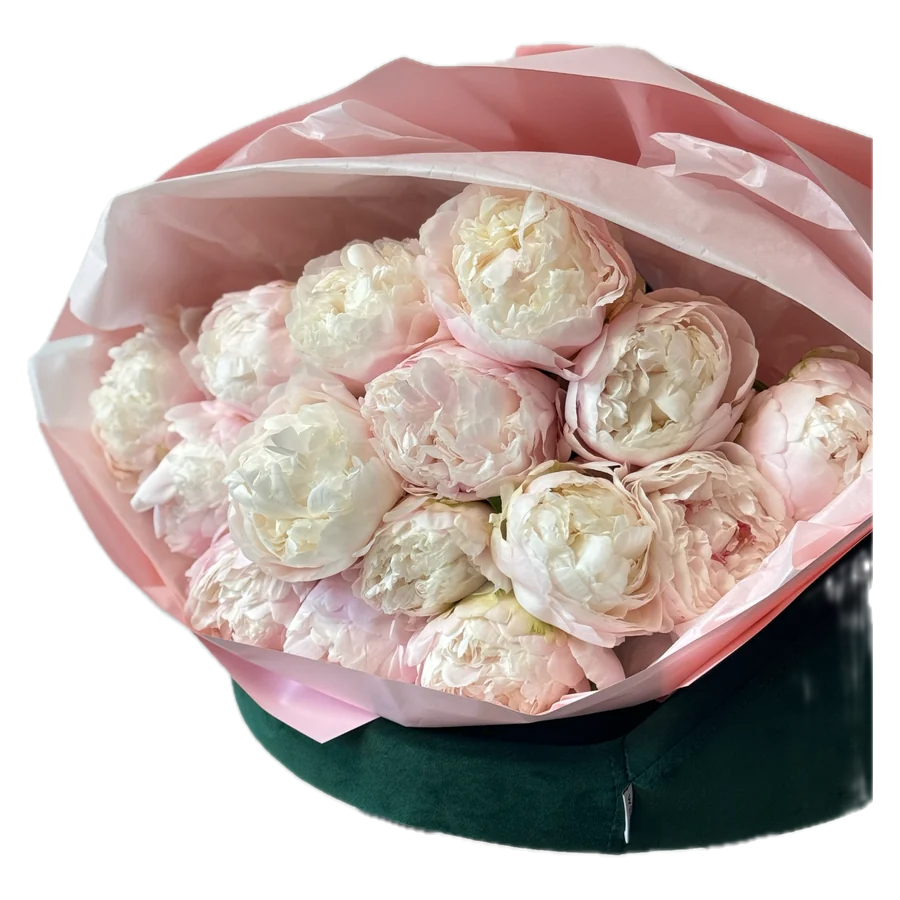
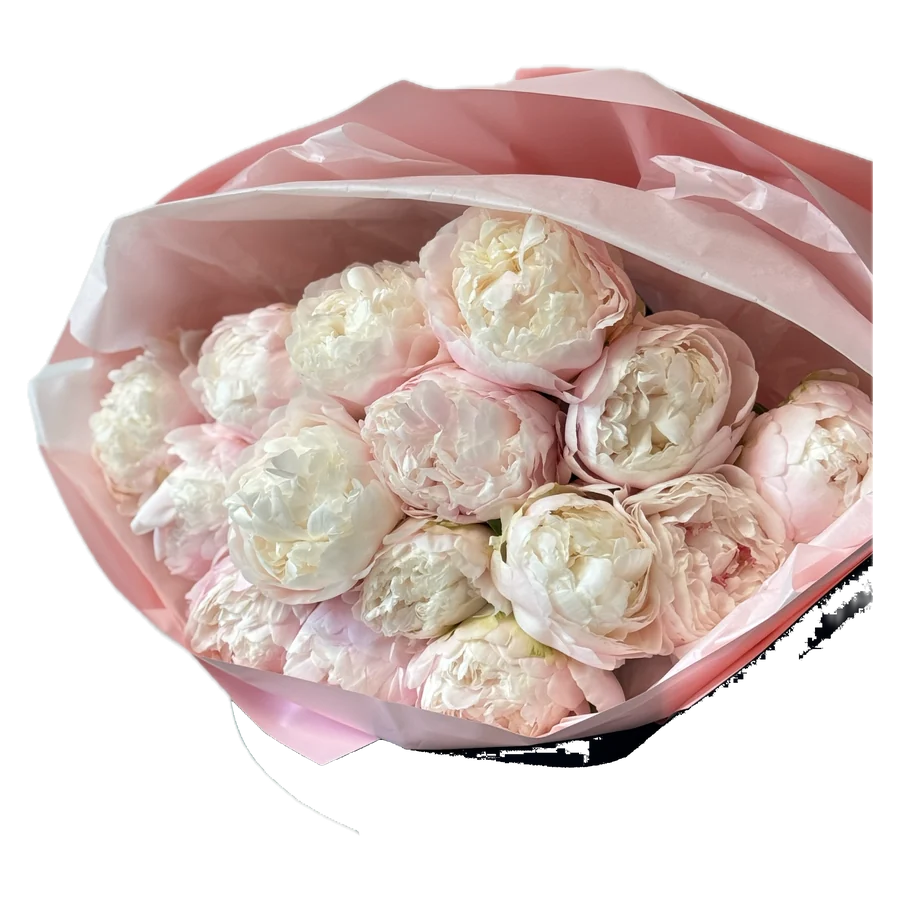
Beschriftung unter Bildern weg, Hocker weg, Weg C ohne Rabattversprechen
Der Instagram-Handle schien durch die Fotos: `.ph::after` gibt `data-label` als
Ersatzbeschriftung aus, und die blieb stehen, sobald ein Bild darüberlag. Bis
jetzt hat das nur die Klasse `cat-ph--frei` von Hand für die Kategoriekacheln
gelöst. Neu greift `:has(img)` beziehungsweise `:has(video)` — die Beschriftung
verschwindet, sobald wirklich etwas im Kasten liegt, und kommt von selbst
zurück, wenn `onerror` ein fehlendes Bild entfernt. Damit ist es für jede
Bildfläche gelöst statt für eine.

Auf der Pfingstrosen-Kachel stand der Strauß auf einem dunkelgrünen Samthocker,
den Vision für Vordergrund hielt — auf schwarzem Grund ein Klotz unter dem
Motiv. Neu ist `tools/fotos/dunkles-entfernen.py`: Der Hocker misst rund
R19/G45/B44, Blüten und Papier liegen bei 170–220, ein Schwellenwert trennt das
zuverlässig. 954.000 Pixel weg, übrig bleibt ein fadendünner Rest, der als
Stiel liest. Das Werkzeug ist allgemein gehalten, weil derselbe Hocker in
mehreren Aufnahmen steht.

Weg C bewirbt keinen Nachlass mehr. „Zehn Prozent günstiger“ warf die Frage
auf, günstiger als was, und beantwortete sie nicht — der Betrag steckt ohnehin
in der Preisstaffel (135 statt 150 €, 198 statt 220 €) und muss nicht behauptet
werden. Stattdessen steht jetzt da, worum es geht: eine Überraschung für gute
Laune. Das Feld hieß `discountPercent` und trug die Zahl 10; es ist zu
`surprise` geworden, weil es nur noch ein Schalter ist.
[…]

diff --git a/src/i18n/ui.ts b/src/i18n/ui.ts
@@ -54,7 +54,7 @@ export const ui = {
 
     // — Vertrauensleiste —
     'trust.delivery.title': 'Lieferung in Berlin',
-    'trust.delivery.text': 'Innerhalb von 24 Stunden nach Ihrer Bestellung.',
+    'trust.delivery.text': 'Zu Ihrem Wunschtermin — immer tagesfrisch.',
     'trust.photo.title': 'Foto vor der Lieferung',
     'trust.photo.text': 'Auf Anfrage — sagen Sie bei der Bestellung Bescheid.',
     'trust.card.title': 'Grußkarte gratis',
@@ -308,9 +308,9 @@ export const ui = {
     'ways.b.cta': 'Zum Katalog',
     'ways.c.title': 'Überraschungsstrauß',
     'ways.c.text':
-      'Ich binde aus den frischesten Blumen des Tages. Dafür ist er zehn Prozent günstiger.',
+      'Ich binde aus den frischesten Blumen des Tages. Eine Überraschung für gute Laune.',
     'ways.c.cta': 'Überraschen lassen',
-    'ways.c.badge': '10 % günstiger',
+    'ways.c.badge': 'Für gute Laune',
 
     // — Verfügbarkeit (Wortlaut von Gala) —
     'shop.seasonal':
@@ -319,7 +319,7 @@ export const ui = {
     'product.gallery': 'Weitere Ansichten',
     'product.length': 'Länge',
     'product.onesize': 'Nur in einer Ausführung',
-    'product.discount': 'Zehn Prozent günstiger, weil ich die Blumen wähle.',
+    'product.discount': 'Eine Überraschung für gute Laune — die Blumen wähle ich.',
     // — Saisonware ohne festen Preis —
     'product.seasonal.badge': 'Saisonware',
     'product.seasonal.price': 'Preis je nach Saison',
@@ -415,7 +415,7 @@ export const ui = {
     'home.instagram.cta': 'Підписатися в Instagram',
 
     'trust.delivery.title': 'Доставка в Берліні',
-    'trust.delivery.text': 'Протягом 24 годин після оформлення замовлення.',
+    'trust.delivery.text': 'На бажану вами дату — завжди свіжі того ж дня.',
     'trust.photo.title': 'Фото перед доставкою',
     'trust.photo.text': 'Надається на запит — просто зазначте при замовленні.',
     'trust.card.title': 'Листівка безкоштовно',
@@ -658,9 +658,9 @@ export const ui = {
     'ways.b.text': 'Вибрати з каталогу, задати розмір і оформлення, замовити. Найшвидший шлях.',
     'ways.b.cta': 'До каталогу',
     'ways.c.title': 'Букет-сюрприз',
-    'ways.c.text': 'Збираю з найсвіжіших квітів дня. Тому він на десять відсотків дешевший.',
+    'ways.c.text': 'Збираю з найсвіжіших квітів дня. Сюрприз для гарного настрою.',
     'ways.c.cta': 'Хай буде сюрприз',
-    'ways.c.badge': 'на 10 % дешевше',
+    'ways.c.badge': 'Для гарного настрою',
 
     'shop.seasonal':
       'Сезонні квіти: у разі їх відсутності ми запропонуємо максимально схожу альтернативу. Деталі уточнюйте у менеджера.',
@@ -668,7 +668,7 @@ export const ui = {
     'product.gallery': 'Інші ракурси',
     'product.length': 'Довжина',
     'product.onesize': 'Лише в одному виконанні',
-    'product.discount': 'На десять відсотків дешевше, бо квіти обираю я.',
+    'product.discount': 'Сюрприз для гарного настрою — квіти обираю я.',
     'product.seasonal.badge': 'Сезонний товар',
     'product.seasonal.price': 'Ціна залежить від сезону',
     'product.seasonal.title': 'Це приклад, а не каталожна позиція',
@@ -761,7 +761,7 @@ export const ui = {
     'home.instagram.cta': 'Follow on Instagram',
 
     'trust.delivery.title': 'Delivery in Berlin',
-    'trust.delivery.text': 'Within 24 hours of placing your order.',
+    'trust.delivery.text': 'On the date you choose — always same-day fresh.',
     'trust.photo.title': 'A photo before delivery',
     'trust.photo.text': 'On request — just say so when you order.',
     'trust.card.title': 'Free greeting card',
@@ -1004,9 +1004,9 @@ export const ui = {
     'ways.b.text': 'Pick from the catalogue, set size and wrapping, order. The fastest route.',
     'ways.b.cta': 'To the catalogue',
     'ways.c.title': 'Surprise bouquet',
-    'ways.c.text': 'I tie it from the freshest flowers of the day. That is why it costs ten per cent less.',
+    'ways.c.text': 'I tie it from the freshest flowers of the day. A surprise to lift the mood.',
     'ways.c.cta': 'Let me surprise you',
-    'ways.c.badge': '10 % less',
+    'ways.c.badge': 'To lift the mood',
 
     'shop.seasonal':
       'Seasonal flowers: if unavailable, we will offer the closest possible alternative. Please contact our manager for more information.',
@@ -1014,7 +1014,7 @@ export const ui = {
     'product.gallery': 'More views',
     'product.length': 'Length',
     'product.onesize': 'One version only',
-    'product.discount': 'Ten per cent less, because I choose the flowers.',
+    'product.discount': 'A surprise to lift the mood — I choose the flowers.',
     'product.seasonal.badge': 'Seasonal item',
     'product.seasonal.price': 'Price depends on the season',
     'product.seasonal.title': 'An example, not a catalogue item',
@@ -1107,7 +1107,7 @@ export const ui = {
     'home.instagram.cta': 'Подписаться в Instagram',
 
     'trust.delivery.title': 'Доставка по Берлину',
-    'trust.delivery.text': 'В течение 24 часов после оформления заказа.',
+    'trust.delivery.text': 'На желаемую вами дату — всегда свежие в тот же день.',
     'trust.photo.title': 'Фото перед доставкой',
     'trust.photo.text': 'Предоставляется по запросу — укажите при оформлении заказа.',
     'trust.card.title': 'Открытка бесплатно',
@@ -1350,9 +1350,9 @@ export const ui = {
     'ways.b.text': 'Выбрать из каталога, задать размер и оформление, заказать. Самый быстрый путь.',
     'ways.b.cta': 'В каталог',
     'ways.c.title': 'Букет-сюрприз',
-    'ways.c.text': 'Собираю из самых свежих цветов дня. Поэтому он на десять процентов дешевле.',
+    'ways.c.text': 'Собираю из самых свежих цветов дня. Сюрприз для хорошего настроения.',
     'ways.c.cta': 'Пусть будет сюрприз',
-    'ways.c.badge': 'на 10 % дешевле',
+    'ways.c.badge': 'Для хорошего настроения',
 
     'shop.seasonal':
       'Сезонные цветы: при их отсутствии мы предложим максимально похожую альтернативу. Подробности уточняйте у менеджера.',
@@ -1360,7 +1360,7 @@ export const ui = {
     'product.gallery': 'Другие ракурсы',
     'product.length': 'Длина',
     'product.onesize': 'Только в одном исполнении',
-    'product.discount': 'На десять процентов дешевле, потому что цветы выбираю я.',
+    'product.discount': 'Сюрприз для хорошего настроения — цветы выбираю я.',
     'product.seasonal.badge': 'Сезонный товар',
     'product.seasonal.price': 'Цена зависит от сезона',
     'product.seasonal.title': 'Это пример, а не каталожная позиция',

diff --git a/src/data/shop.ts b/src/data/shop.ts
@@ -64,8 +64,13 @@ export interface Bouquet {
   length?: string;
   /** Blendet den Hinweis „andere Größen und Längen auf Anfrage“ ein. */
   variantsOnRequest?: boolean;
-  /** Prozentualer Nachlass, z. B. 10 beim Überraschungsstrauß. */
-  discountPercent?: number;
+  /**
+   * Markiert den Überraschungsstrauß. Hieß früher `discountPercent` und trug
+   * die Zahl 10 — der Nachlass wird seit dem 14.08.2026 nicht mehr beworben:
+   * Er steckt bereits in der Preisstaffel, und „zehn Prozent günstiger“ ohne
+   * genannten Vergleichspreis warf mehr Fragen auf, als es beantwortete.
+   */
+  surprise?: boolean;
 
   /**
    * Beispiel für Saisonware: Zusammensetzung UND Preis richten sich nach der
@@ -399,7 +404,7 @@ export const BOUQUETS: Bouquet[] = [
     category: 'dopamin',
     featured: true,
     prices: { m: 8500, l: 13500, xl: 19800 },
-    discountPercent: 10,
+    surprise: true,
     variantsOnRequest: true,
     presentations: ['bouquet', 'premium', 'basket', 'box', 'vase'],
     images: ['/images/products/ueberraschung.webp'],

diff --git a/src/styles/global.css b/src/styles/global.css
@@ -419,6 +419,23 @@ hr {
   overflow: hidden;
 }
 
+/*
+  Sobald wirklich ein Bild im Kasten liegt, hat die Ersatzbeschriftung nichts
+  mehr zu suchen — sie schien sonst durch das Foto hindurch. `:has()` ist hier
+  genau richtig: Entfernt `onerror` das Bild, weil die Datei fehlt, greift die
+  Beschriftung von selbst wieder. Die Klasse `cat-ph--frei` machte dasselbe von
+  Hand und ist damit nur noch für den Verlauf zuständig.
+*/
+.ph:has(img)::after,
+.ph:has(video)::after {
+  content: none;
+}
+
+.ph:has(img),
+.ph:has(video) {
+  background: none;
+}
+
 .ph::after {
   content: attr(data-label);
   font-family: var(--font-display), serif;

diff --git a/tools/fotos/dunkles-entfernen.py b/tools/fotos/dunkles-entfernen.py
@@ -1,0 +1,61 @@
+"""
+Dunkle Requisiten aus einem Freisteller nehmen.
+
+Vision stellt zuverlässig frei, hält dabei aber alles für Vordergrund, worauf
+das Motiv steht — bei Galas Aufnahmen ist das immer wieder derselbe dunkelgrüne
+Samthocker. Auf schwarzem Grund wird daraus ein Klotz unter dem Strauß.
+
+Die Trennung ist einfach, weil die Werte weit auseinanderliegen: Der Hocker
+misst rund R19/G45/B44 — dunkel, und Rot deutlich schwächer als Grün und Blau.
+Blüten und Papier liegen bei 170–220 in allen Kanälen. Ein Schwellenwert
+genügt, es braucht kein Modell.
+
+Danach bleibt die größte zusammenhängende Fläche übrig; das erledigt
+`aufbereiten.py` im nächsten Schritt ohnehin.
+
+Aufruf:
+    python3 dunkles-entfernen.py <ein.png> <aus.png> [helligkeit] [abstand]
+
+    helligkeit  Ab welcher Helligkeit ein Pixel sicher zum Motiv gehört (110)
+    abstand     Wie viel schwächer Rot sein muss als Grün und Blau (8)
+"""
+
+import sys
+
+import numpy as np
+from PIL import Image
+
+
+def dunkles_entfernen(
+    pfad_ein: str,
+    pfad_aus: str,
+    helligkeit: int = 110,
+    abstand: int = 8,
+) -> int:
+    im = Image.open(pfad_ein).convert('RGBA')
+    daten = np.array(im).astype(int)
+    rot, gruen, blau, alpha = (daten[:, :, i] for i in range(4))
+
+    sichtbar = alpha > 24
+    dunkel = daten[:, :, :3].max(axis=2) < helligkeit
+    blaugruen = (gruen > rot + abstand) & (blau > rot + abstand)
+
+    weg = sichtbar & dunkel & blaugruen
+    daten[:, :, 3] = np.where(weg, 0, alpha)
+
+    Image.fromarray(daten.astype(np.uint8), 'RGBA').save(pfad_aus, optimize=True)
+    return int(weg.sum())
+
+
+if __name__ == '__main__':
+    if len(sys.argv) < 3:
+        print(__doc__)
+        raise SystemExit(2)
+
+    entfernt = dunkles_entfernen(
+        sys.argv[1],
+        sys.argv[2],
+        int(sys.argv[3]) if len(sys.argv) > 3 else 110,
+        int(sys.argv[4]) if len(sys.argv) > 4 else 8,
+    )
+    print(f'ok {sys.argv[2]} — {entfernt:,} Pixel entfernt'.replace(',', '.'))

diff --git a/HANDOVER.md b/HANDOVER.md
@@ -156,7 +156,7 @@ ließe sich der Preis im Formular manipulieren.
 | :--- | :--- | :--- |
 | **A** Strauß zusammenstellen | Blumen, Farbstimmung, Größe, Budget, Termin, Adresse | vorbereiteter Nachricht — *nicht* in der Kasse |
 | **B** Fertigen Strauß wählen | Katalog, Konfigurator | Stripe-Kasse |
-| **C** Überraschungsstrauß | Floristin wählt, 10 % günstiger | Stripe-Kasse |
+| **C** Überraschungsstrauß | Floristin wählt, für gute Laune | Stripe-Kasse |
 
 **Warum Weg A keine Kasse hat:** Gala hat kein Lager. Was heute frisch ist,
 entscheidet der Markt am Morgen — ein Warenkorb würde Blumen zusagen, die sie
@@ -169,10 +169,15 @@ was dazugehört — Name, Telefon, Wunschtermin mit Zeitfenster, Lieferadresse,
 Kartentext. Vorher folgten darauf drei Rückfragen.
 
 > **Nicht rückgängig machen.** Aus Weg A einen Warenkorb zu machen wäre
-> technisch leicht und geschäftlich falsch. Ebenso der Rabatt bei Weg C: Er
-> steht bewusst als Begründung da, nicht als durchgestrichener Preis. Ein
-> dauerhafter Nachlass *ist* der Preis, und ein nie verlangter Streichpreis ist
-> in Deutschland abmahnbar.
+> technisch leicht und geschäftlich falsch.
+>
+> Bei Weg C ist der Nachlass seit dem 14.08.2026 **gar kein Thema mehr**. Er
+> steckt in der Preisstaffel — 135 statt 150 €, 198 statt 220 € — und wird
+> nirgends beworben. „Zehn Prozent günstiger“ warf die Frage auf, günstiger als
+> was, und beantwortete sie nicht; jetzt steht dort, worum es geht: eine
+> Überraschung für gute Laune. Keinen Streichpreis daraus machen — ein nie
+> verlangter Vergleichspreis ist in Deutschland abmahnbar, und ein dauerhafter
+> Nachlass *ist* schlicht der Preis.
 
 ### Anfragen ohne Server
 
